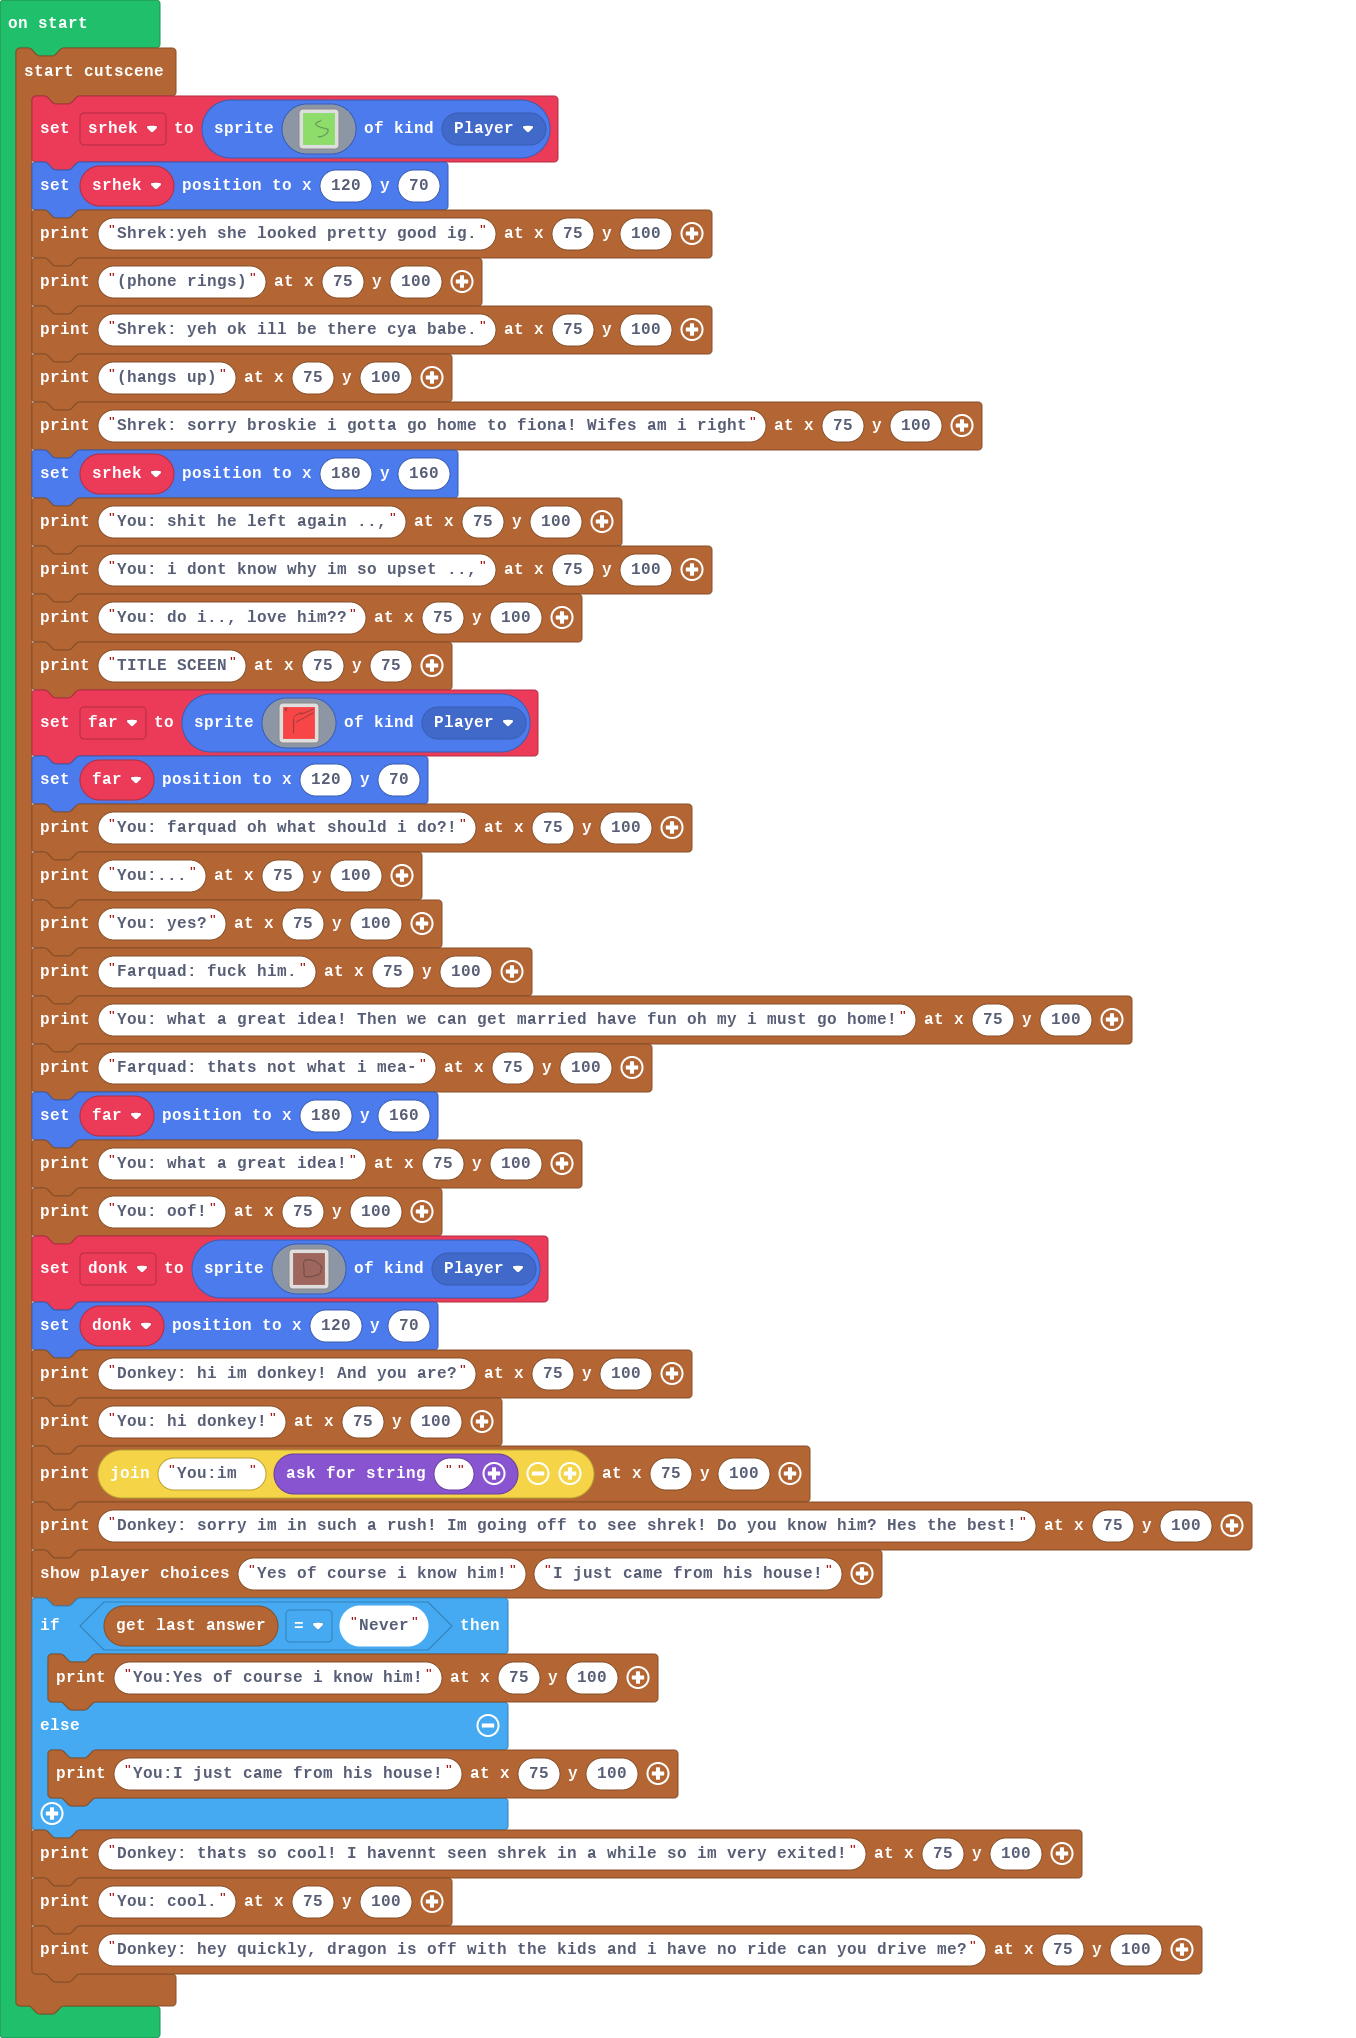
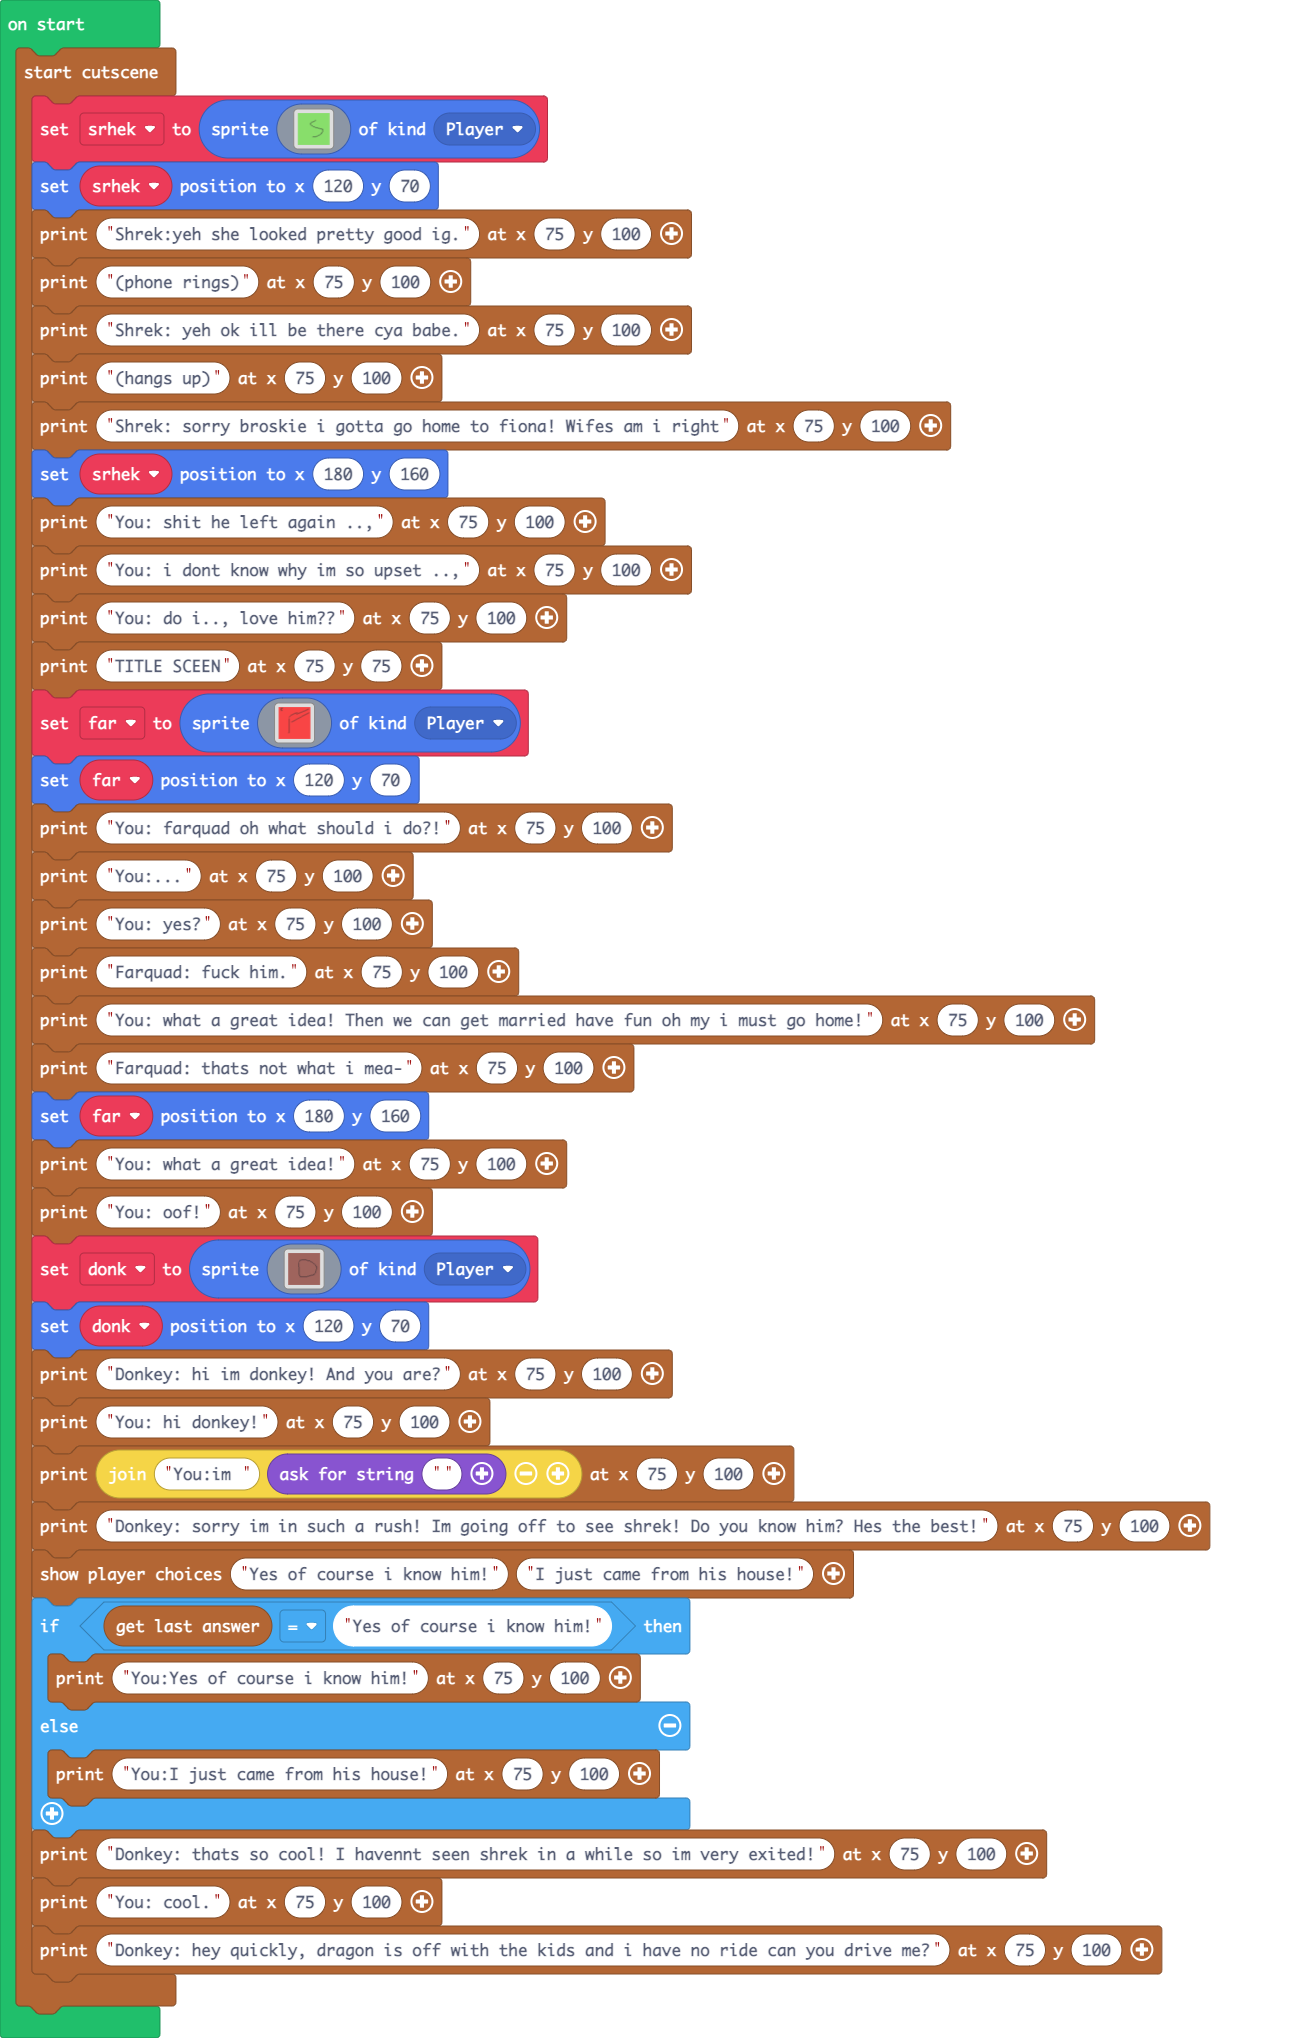
Update main.blocks, main.ts

diff --git a/main.ts b/main.ts
@@ -227,7 +227,7 @@ story.startCutscene(function () {
     story.printText("You:im " + game.askForString(""), 75, 100)
     story.printText("Donkey: sorry im in such a rush! Im going off to see shrek! Do you know him? Hes the best!", 75, 100)
     story.showPlayerChoices("Yes of course i know him!", "I just came from his house!")
-    if (story.getLastAnswer() == "Never") {
+    if (story.getLastAnswer() == "Yes of course i know him!") {
         story.printText("You:Yes of course i know him!", 75, 100)
     } else {
         story.printText("You:I just came from his house!", 75, 100)
